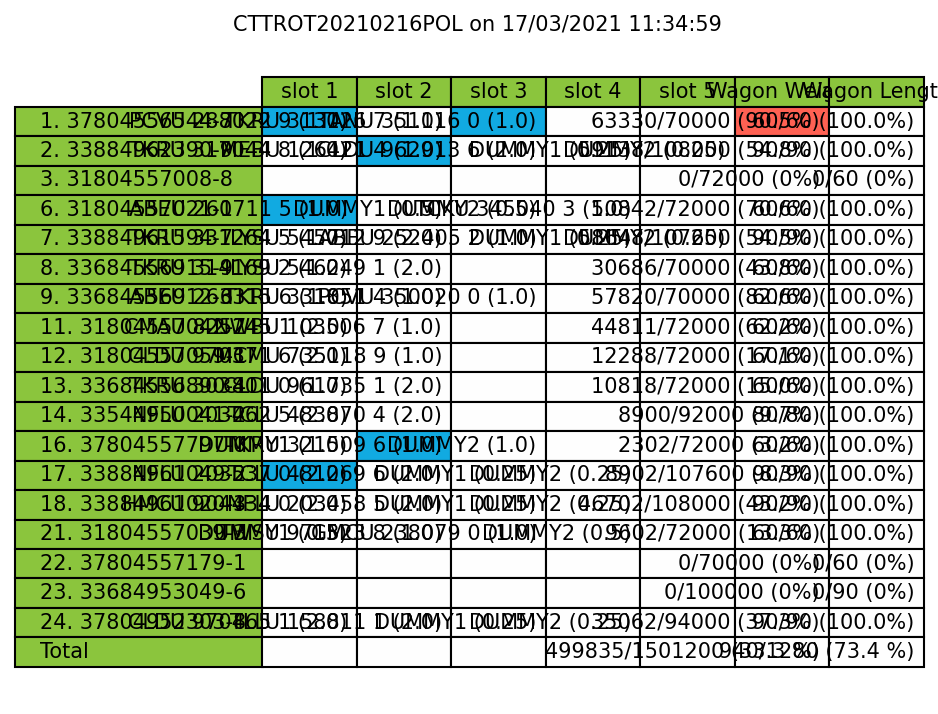
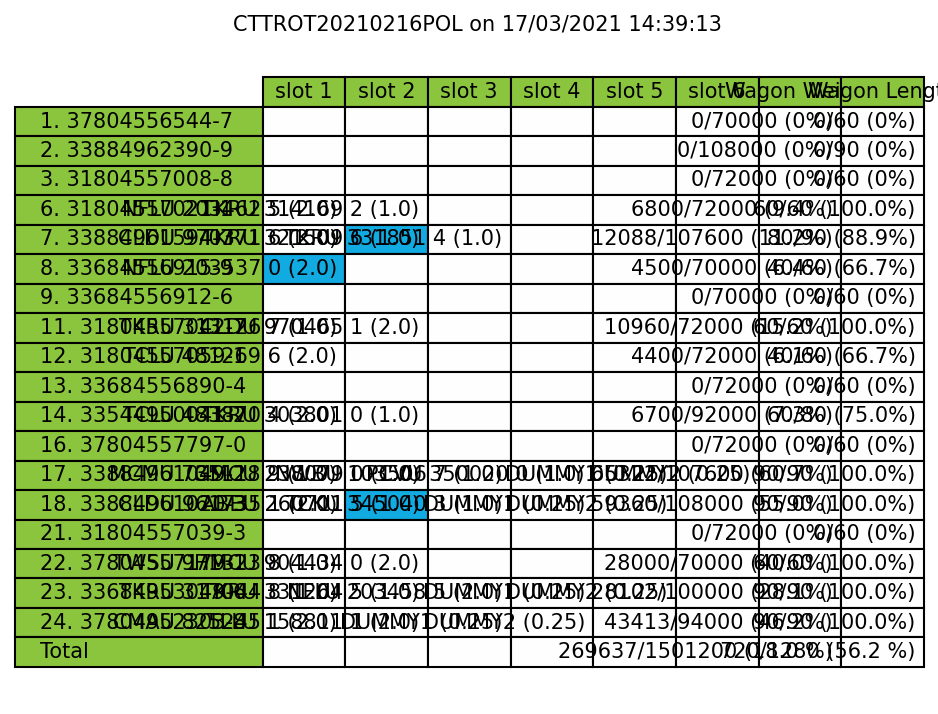
All wagon if there are enough containers

Changed region(s): [[0.1237, 0.0924, 1.0, 0.9244], [0.6802, 0.0, 0.7729, 0.0616]]

diff --git a/scripts/TrainLoadingConstraint.py b/scripts/TrainLoadingConstraint.py
@@ -17,6 +17,7 @@ def main(containers, train):
     # Define the cp model
     model = cp_model.CpModel()
     priority_list = []
+
     # Set some random containers to be in the priority list.
     for i in range(0, len(containers), 10):
         print("Container ", i, "Must be loaded")
@@ -27,6 +28,7 @@ def main(containers, train):
         print("Container ", i, "is hazardous")
         containers[i].set_hazard_class(1)
 
+    
 
     """
                 VARIABLES
@@ -38,6 +40,10 @@ def main(containers, train):
         for w_j, wagon in enumerate(train.wagons):
             x[(c_i,w_j)] = model.NewIntVar(0, 1, 'cont:%i,wagon%i' % (c_i, w_j))
     
+    # This value of this is: spreadContainers == (len(containers) > len(train.wagons))
+    # This is added as a constraint
+    spreadContainers = model.NewBoolVar('spreadContainers')
+
     # y = {}
     # for w_j, wagon in enumerate(train.wagons):
     #     y[(w_j)] = model.NewIntervalVar(0, wagon.get_total_length(), wagon.get_total_length(), 'wagon_slot_%i' % (w_j))
@@ -59,9 +65,19 @@ def main(containers, train):
     # Each container can be in at most one wagon.
     for c_i, container in enumerate(containers):
         if container not in priority_list:
-            model.Add(sum(x[(c_i, w_j)] for w_j, _ in enumerate(train.wagons)) <= 1)
+            model.Add(
+                sum(x[(c_i, w_j)] for w_j, _ in enumerate(train.wagons)) <= 1
+                )
 
     # Each wagon has at least one container
+    # Only enforce if there are enough containers
+    model.Add( 
+        spreadContainers == (len(containers) > len(train.wagons)) # Check if there are enough containers to spread them out over wagons
+        )
+    for w_j, _ in enumerate(train.wagons):
+        model.Add(
+            sum(x[(c_i, w_j)] for c_i, _ in enumerate(containers)) >= 1 # Each wagon has at least one container
+        ).OnlyEnforceIf(spreadContainers)
 
     # All containers in the priority list need to be loaded on the train, no matter what.
     for c_i in priority_list:
